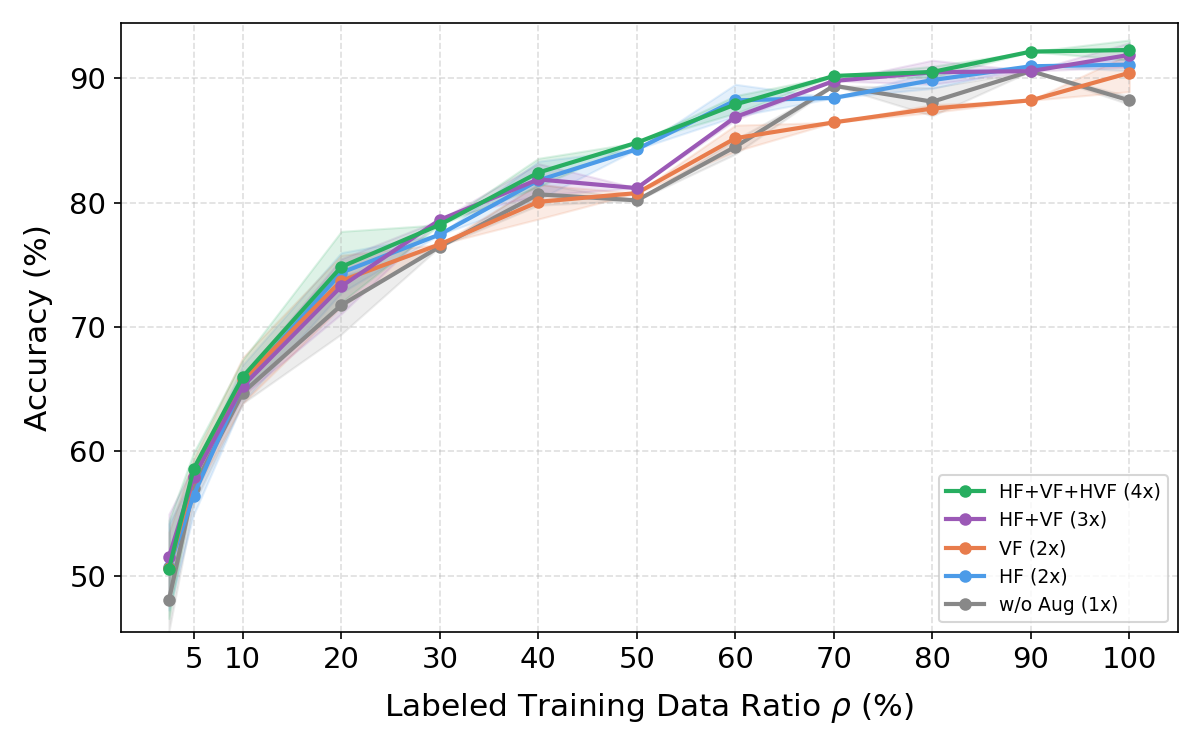
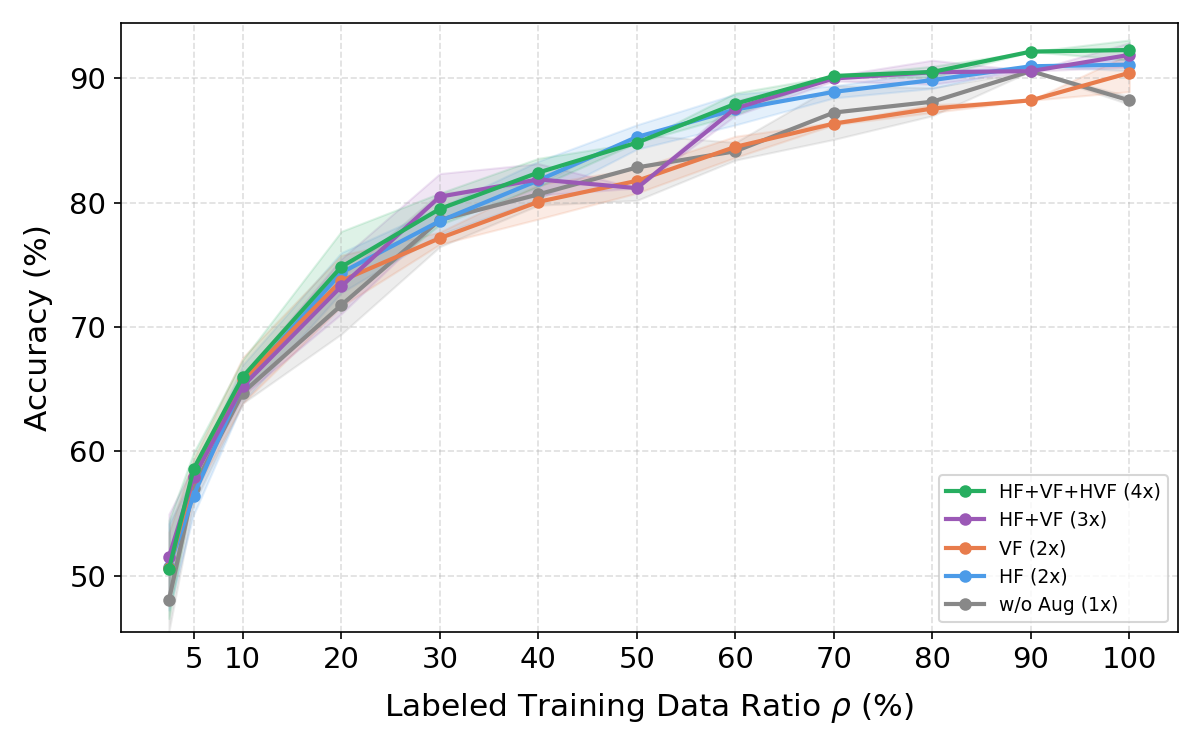
check results

Changed region(s): [[0.2775, 0.092, 0.7708, 0.3987]]

diff --git a/classification/exp/data_aug/README.md b/classification/exp/data_aug/README.md
@@ -46,7 +46,11 @@ SEED=57 PORTIONS="10" DEVICE="cuda:1" ./exp/data_aug/scripts/train_flip.sh
 ./exp/data_aug/scripts/flip_total_p20.sh
 ./exp/data_aug/scripts/flip_total_p40.sh
 AUGS="no_aug aug2_h aug2_v" MAX_RUN=3 SEEDS="24 38 57" LRS="7e-5 1e-4 3e-4 5e-4 7e-4" PORTIONS="60" DEVICE="cuda:7" ./exp/data_aug/scripts/train_flip_parallel.sh
-AUGS="aug3 aug4" MAX_RUN=3 SEEDS="24 38 57" LRS="5e-5 7e-5 1e-4 3e-4 5e-4" PORTIONS="60" DEVICE="cuda:8" ./exp/data_aug/scripts/train_flip_parallel.sh
+
+AUGS="no_aug aug2_h aug2_v aug3 aug4" MAX_RUN=3 SEEDS="10 24 38 42 57" LRS="5e-5 7e-5 1e-4 3e-4 5e-4" PORTIONS="10 20 30 50" DEVICE="cuda:7" ./exp/data_aug/scripts/train_flip_parallel.sh
+
+
+AUGS="no_aug aug2_h aug2_v aug3 aug4" MAX_RUN=3 SEEDS="10 24 38 42 57" LRS="5e-5 7e-5 1e-4 3e-4 5e-4" PORTIONS="40 60 70 80 90" DEVICE="cuda:8" ./exp/data_aug/scripts/train_flip_parallel.sh
 
 
 ```
@@ -58,8 +62,14 @@ python3 ./plot_all.py --portions 2.5
 python3 ./plot_all.py --portions 5
 python3 ./plot_all.py --portions 10
 python3 ./plot_all.py --portions 20
+python3 ./plot_all.py --portions 30
 python3 ./plot_all.py --portions 40
+python3 ./plot_all.py --portions 50
+python3 ./plot_all.py --portions 60
+python3 ./plot_all.py --portions 70
 python3 ./plot_all.py --portions 80
+python3 ./plot_all.py --portions 90
+python3 ./plot_all.py --portions 100
 ```
 
 Oh...LR應該還要再往下一格，尤其是data量大、又有4x augmentation的時候!
